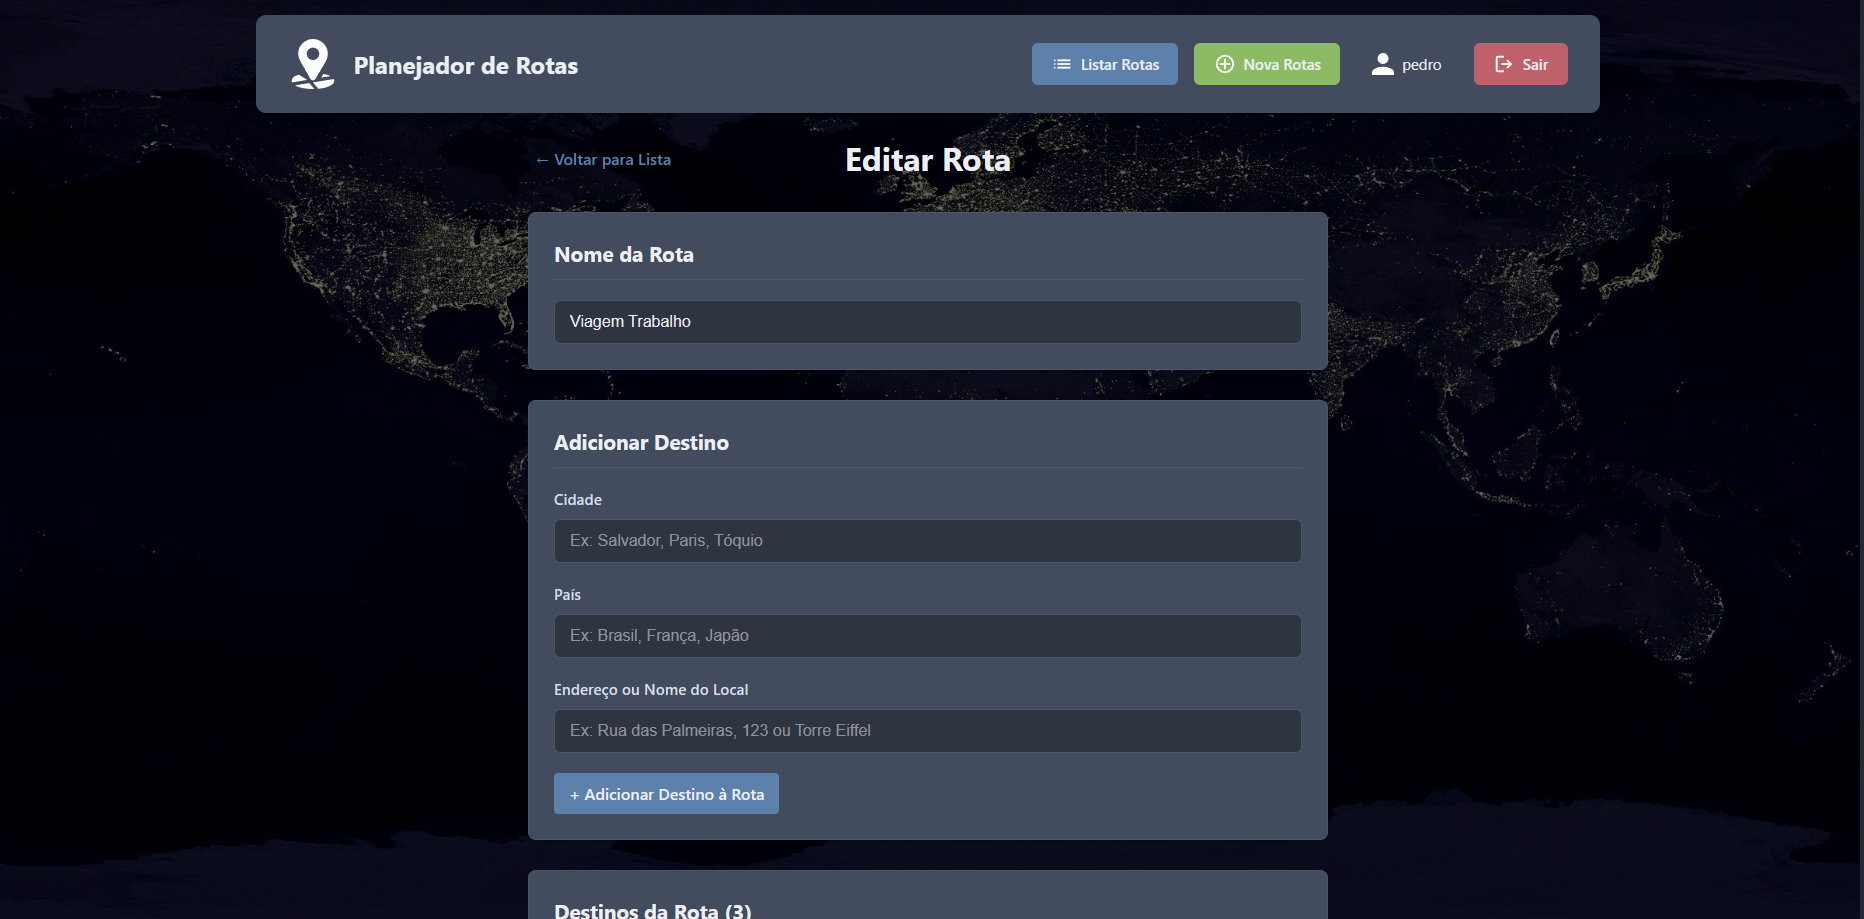
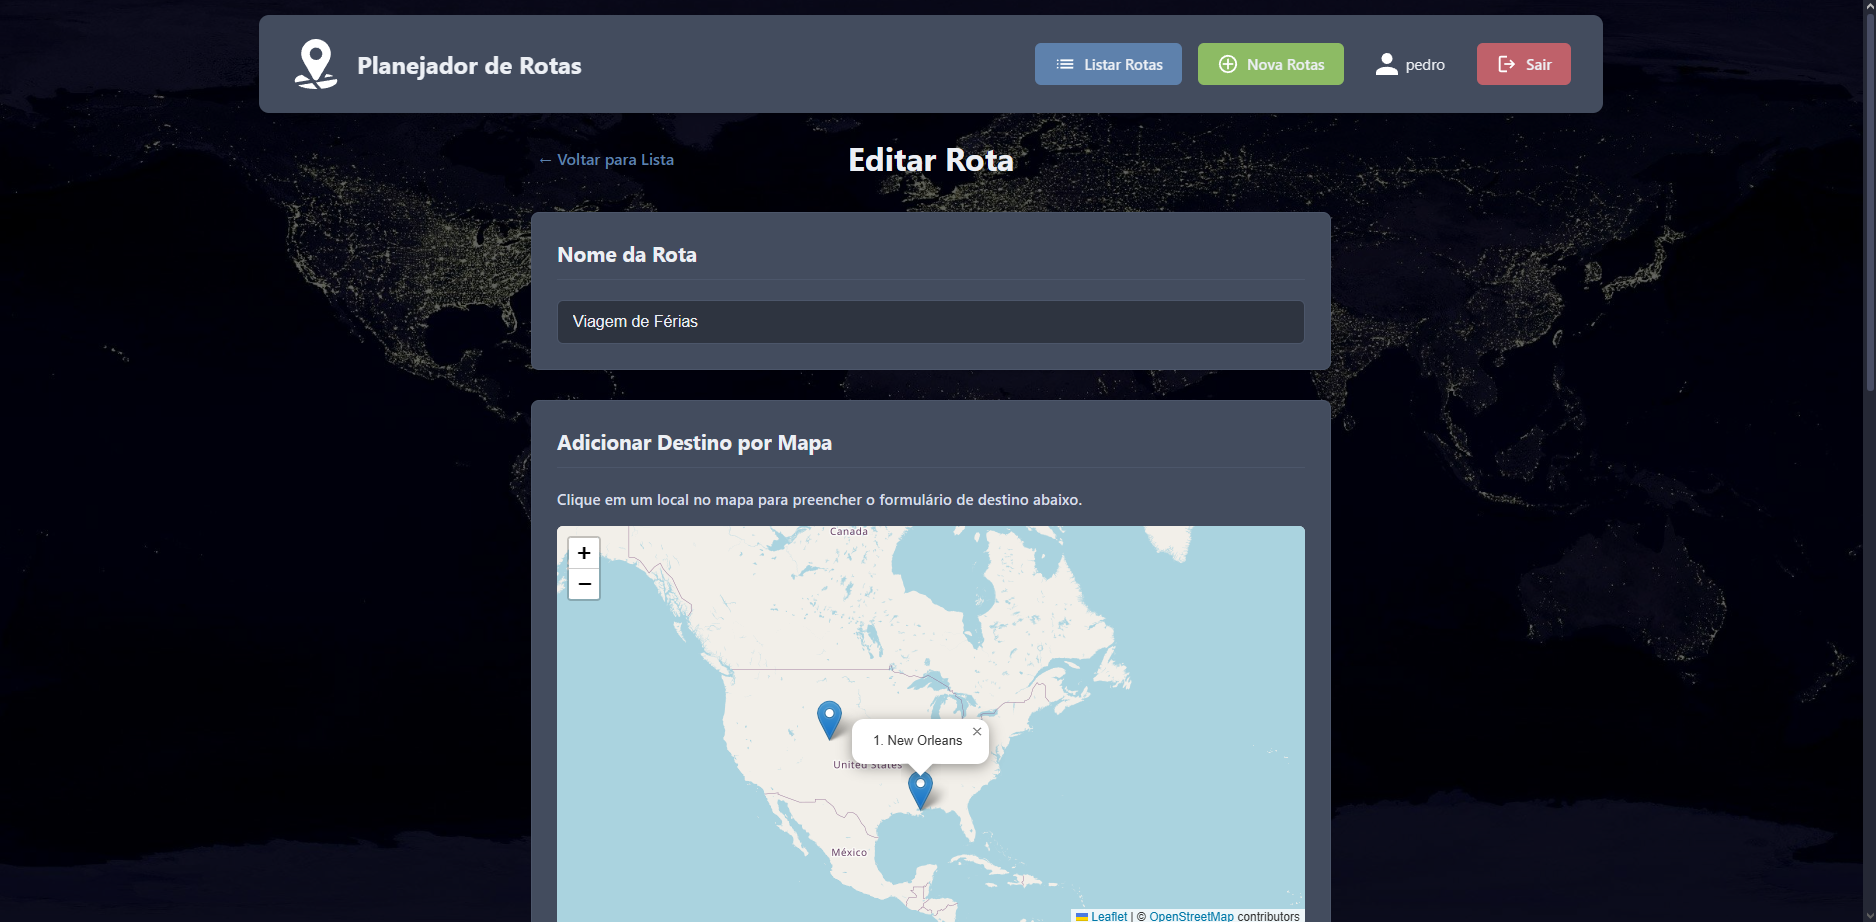
docs: Update README

diff --git a/README.md b/README.md
@@ -2,36 +2,40 @@
 
 Bem-vindo ao seu planejador de rotas, uma aplicação web completa desenvolvida para te ajudar a planejar suas viagens de forma eficiente e organizada. Crie rotas, adicione destinos, visualize distâncias, tempos de percurso e muito mais!
 
+Este projeto foi construído como parte de um desafio técnico, demonstrando habilidades em desenvolvimento full-stack com Node.js, React, e integração de serviços externos, além de estar totalmente configurado para rodar com Docker.
+
 ---
 
-## 🌟 Funcionalidades Principais
+## Funcionalidades Principais
 
-* **👤 Autenticação de Usuários:**
-    * Sistema de registro com nome de usuário e senha.
-    * Validação de senha.
-    * Login seguro com uso de JSON Web Tokens (JWT) para gerenciamento de sessão.
-    * Rotas da API protegidas, garantindo que cada usuário acesse apenas suas próprias informações.
-* **✈ Rotas de Viagem Personalizadas:**
+* **Ambiente Dockerizado:**
+    * Configuração completa com `Docker` e `Docker Compose`, permitindo que toda a aplicação (backend e frontend) seja iniciada com um único comando.
+    * Garante um ambiente de desenvolvimento consistente e simplifica o deploy.
+* **Autenticação de Usuários:**
+    * Sistema de registro seguro com validação e criptografia de senhas (`bcryptjs`).
+    * Login com gerenciamento de sessão via **JSON Web Tokens (JWT)**.
+    * API com rotas protegidas, garantindo que cada usuário acesse apenas suas próprias informações.
+* **Rotas de Viagem Personalizadas:**
     * Criação, listagem, edição e exclusão (CRUD completo) de rotas de viagem, associadas individualmente a cada usuário.
     * Interface intuitiva para nomear e gerenciar múltiplas rotas.
-* **📍 Gerenciamento Detalhado de Destinos:**
+* **Gerenciamento Detalhado de Destinos:**
     * Adição de múltiplos destinos a cada rota, especificando cidade, país e observações/endereço.
     * **Geocodificação Automática:** Ao adicionar um destino com informações textuais, o sistema busca automaticamente suas coordenadas (latitude e longitude) usando a API do OpenRouteService.
     * **Reordenação de Destinos:** Interface permite que o usuário reorganize a ordem dos destinos dentro de uma rota de forma fácil.
     * Exclusão e edição de destinos de uma rota.
-* **📈 Cálculo e Visualização de Percurso (Integrado com OpenRouteService):**
+* ** Cálculo e Visualização de Percurso (Integrado com OpenRouteService):**
     * Ao salvar ou atualizar uma rota com pelo menos dois destinos, o sistema calcula automaticamente:
         * A **distância total** e o **tempo total estimado** da viagem.
         * A **distância e tempo de cada trecho individual** entre os destinos.
     * Esses dados precisos são armazenados e exibidos para o usuário.
     * Botão "Calcular Prévia Detalhada" nas telas de criação/edição para obter uma estimativa atualizada antes de salvar.
-* **💅 Interface Moderna e Reativa:**
-    * Frontend construído com React, utilizando componentes reutilizáveis.
+* ** Interface Moderna e Reativa:**
+    * Frontend construído com React e Vite, utilizando componentes reutilizáveis.
     * Navegação fluida entre páginas com React Router DOM.
     * Estilização com CSS Modules para componentes escopados e organizados.
     * Uso de modais customizados para alertas e confirmações, melhorando a experiência do usuário.
-    * Header responsivo (ajustes iniciais para mobile).
-* **🔧 Backend Robusto:**
+    * Header responsivo.
+* ** Backend Robusto:**
     * API RESTful construída com Node.js e Express.js.
     * Persistência de dados com NeDB (banco de dados leve baseado em arquivos).
     * Tratamento de erros padronizado e informativo.
@@ -42,6 +46,7 @@ Bem-vindo ao seu planejador de rotas, uma aplicação web completa desenvolvida 
 ## 🛠 Tecnologias Utilizadas
 
 <p align="center">
+  <img src="https://img.shields.io/badge/Docker-2496ED?style=for-the-badge&logo=docker&logoColor=white" alt="Docker"/>
   <img src="https://img.shields.io/badge/Node.js-339933?style=for-the-badge&logo=nodedotjs&logoColor=white" alt="Node.js"/>
   <img src="https://img.shields.io/badge/Express.js-000000?style=for-the-badge&logo=express&logoColor=white" alt="Express.js"/>
   <img src="https://img.shields.io/badge/React-20232A?style=for-the-badge&logo=react&logoColor=61DAFB" alt="React"/>
@@ -68,7 +73,7 @@ Bem-vindo ao seu planejador de rotas, uma aplicação web completa desenvolvida 
 * `fetch` API (Para comunicação com o backend)
 
 **Ferramentas de Desenvolvimento:**
-* ESLint (Para linting de código JavaScript/JSX)
+* Docker (Containerização)
 * Postman (Para testes da API)
 * Git & GitHub (Para versionamento de código)
 
@@ -88,6 +93,7 @@ Bem-vindo ao seu planejador de rotas, uma aplicação web completa desenvolvida 
 
 ![Página de Edição de Rota](screenshots/Editar1.png)
 ![Página de Edição de Rota](screenshots/Editar2.png)
+![Página de Edição de Rota](screenshots/Editar3.png)
 
 ---
 
@@ -95,47 +101,32 @@ Bem-vindo ao seu planejador de rotas, uma aplicação web completa desenvolvida 
 
 Siga os passos abaixo para configurar e rodar o projeto na sua máquina.
 
-### Pré-requisitos
-* Node.js (versão LTS recomendada, ex: 18.x ou 20.x)
-* npm (geralmente vem com o Node.js) ou Yarn
+**Pré-requisitos:**
+* Docker e Docker Compose instalados.
 
-### Backend Setup
+**Passos:**
 1.  Clone o repositório:
     ```bash
-    git clone https://github.com/pedro-ft/planejador-rotas
-    cd planejador-rotas/backend
+    git clone [https://github.com/pedro-ft/planejador-rotas.git](https://github.com/pedro-ft/planejador-rotas.git)
+    cd planejador-rotas
     ```
-2.  Instale as dependências:
-    ```bash
-    npm install
-    ```
-3.  Configure as Variáveis de Ambiente:
-    * Crie um arquivo chamado `.env` na raiz da pasta `backend/`.
-    * Adicione as seguintes variáveis (substitua pelos valores corretos):
+2.  Configure as Variáveis de Ambiente do Backend:
+    * Navegue até a pasta `backend`.
+    * Crie um novo arquivo `.env`.
+    * Preencha as variáveis necessárias:
       ```env
+      # backend/.env
       ORS_API_KEY=SUA_CHAVE_API_REAL_DO_OPENROUTESERVICE
       JWT_SECRET=SEU_SEGREDO_JWT_FORTE_E_ALEATORIO
       ```
-4.  Inicie o servidor backend:
-    ```bash
-    npm run dev 
-    ```
-    O backend estará rodando em `http://localhost:4000`.
-
-### Frontend Setup
-1.  Em um novo terminal, navegue até a pasta do frontend:
-    ```bash
-    cd nome_da_pasta_do_projeto/frontend 
-    ```
-2.  Instale as dependências:
-    ```bash
-    npm install
-    ```
-3.  Inicie o servidor de desenvolvimento do frontend:
-    ```bash
-    npm run dev
-    ```
-    A aplicação frontend estará acessível em `http://localhost:5173`.
+3.  Inicie a aplicação com Docker Compose:
+    * Na **raiz do projeto** (onde está o arquivo `docker-compose.yml`), execute:
+      ```bash
+      docker-compose up --build
+      ```
+4.  Pronto!
+    * O frontend estará acessível em `http://localhost:5173`.
+    * O backend estará rodando em `http://localhost:4000`.
 
 ---
 
@@ -165,8 +156,5 @@ O projeto está dividido em duas pastas principais:
 ## 🔮 Possíveis Melhorias e Funcionalidades Futuras
 
 Aqui estão algumas ideias para evoluções futuras:
-* **Integração Visual com Mapa:**
-    * Permitir adicionar/selecionar destinos clicando em um mapa (ex: usando Leaflet, Mapbox GL JS).
-    * Visualizar a rota traçada no mapa.
 * **Reordenação Drag-and-Drop:** Tornar a reordenação de destinos mais interativa com arrastar e soltar.
 * **Deploy:** Publicar a aplicação em uma plataforma de hospedagem.
